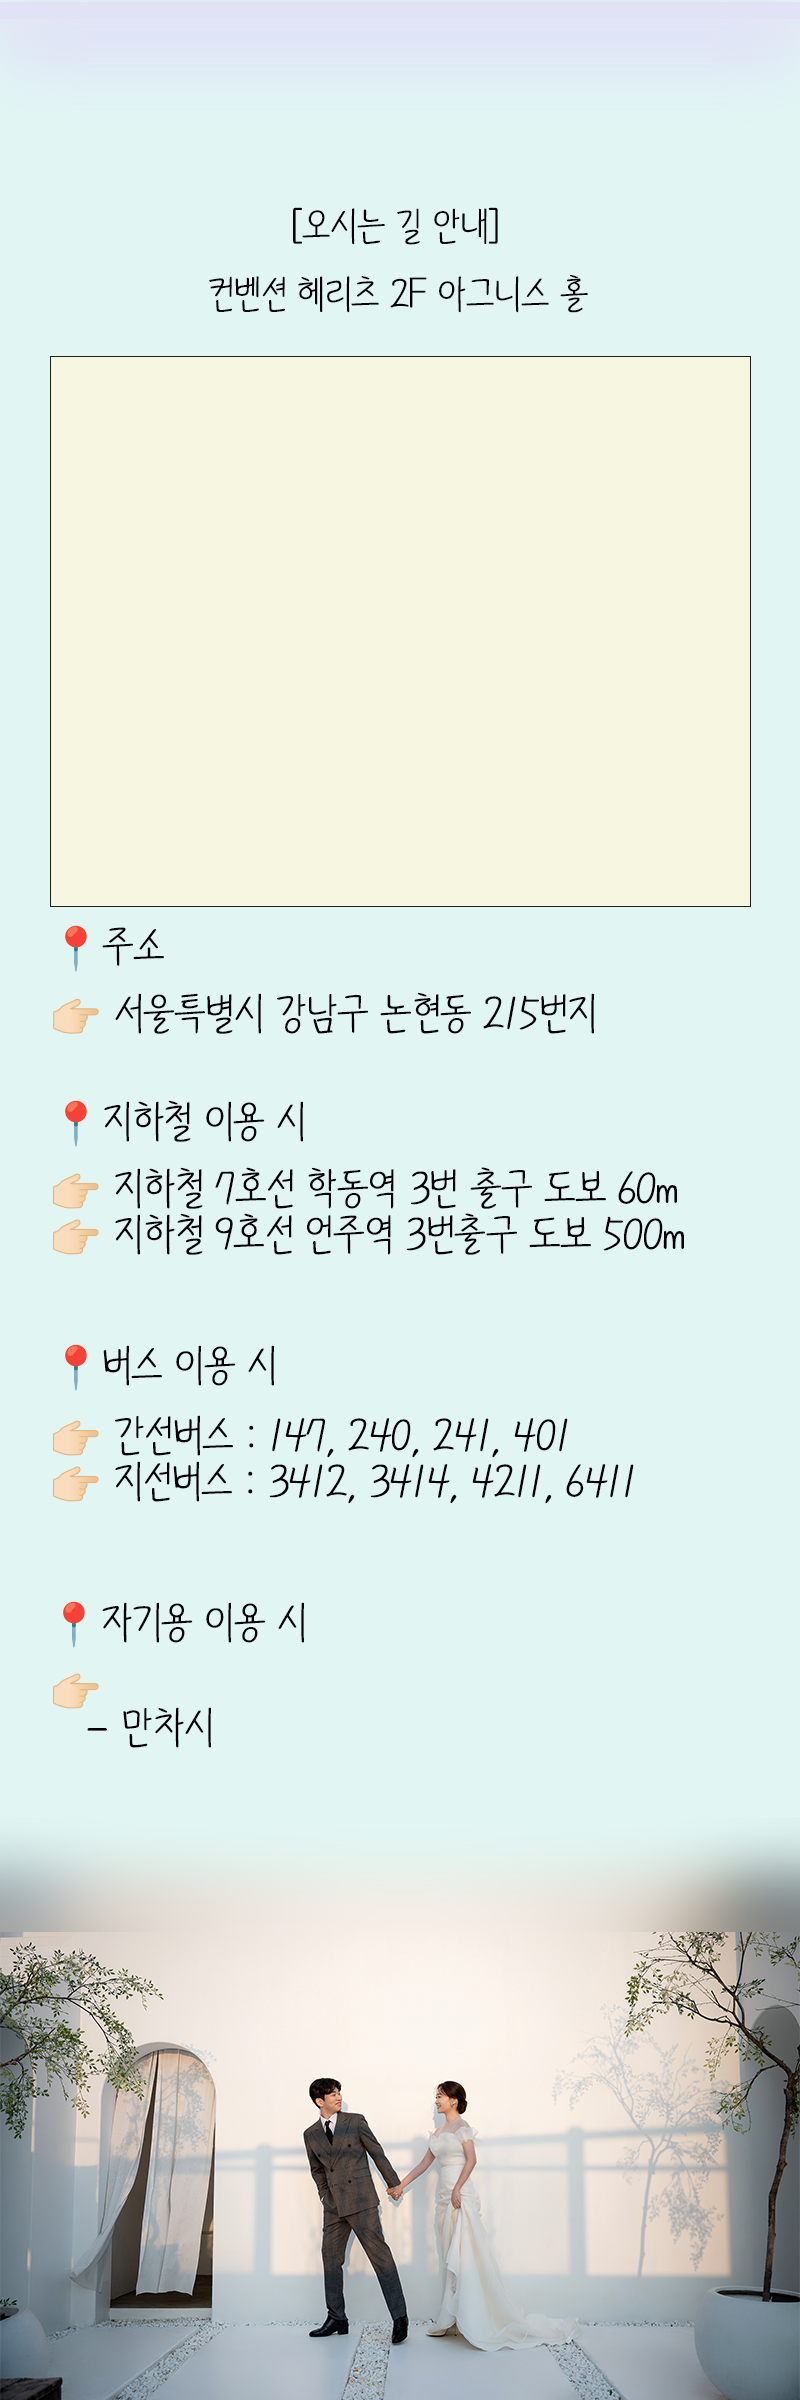
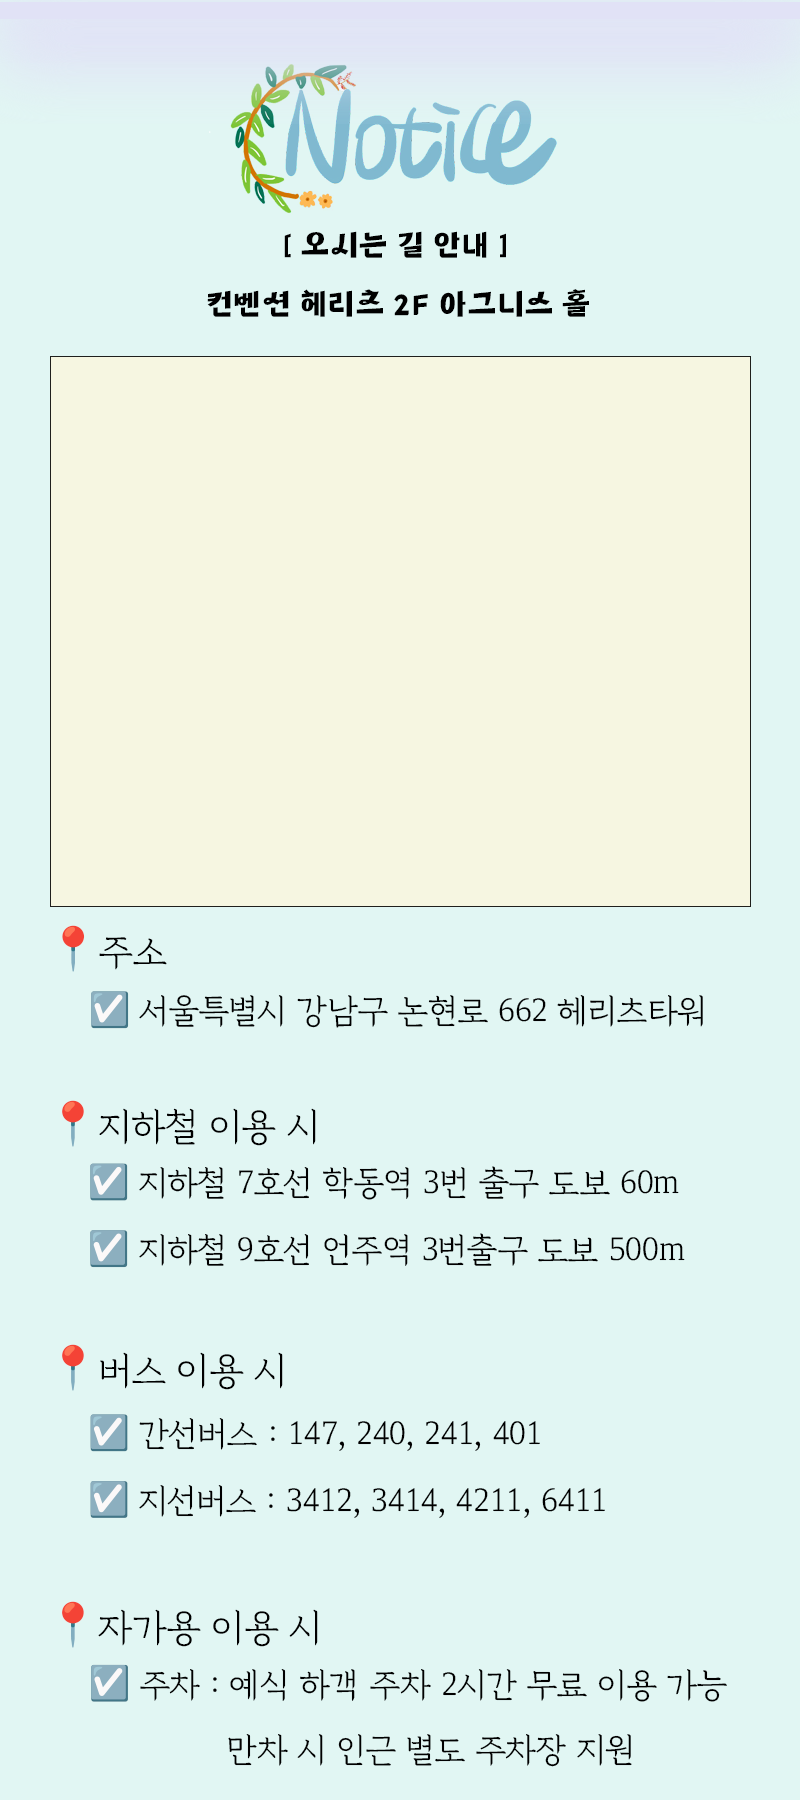
update

diff --git a/css/section.css b/css/section.css
@@ -229,7 +229,7 @@ margin-top: -2%;
 }
 .notice_map {
   position: absolute;
-  top: 13.7%;
+  top: 18.4%;
   left: 10%;
   z-index: 100;
   width: 100%;
@@ -246,11 +246,11 @@ margin-top: -2%;
   z-index: 1;
   width: 100%;
   height: auto;
-  margin-top: -8%;
+  margin-top: -4%;
 }
 .icon1 {
     position: absolute;
-    top : 17.1%;
+    top : 21.9%;
     left : 70%;
     cursor: pointer;
     /* display: inline-block; */
@@ -262,7 +262,7 @@ margin-top: -2%;
 }
 .icon2 {
     position: absolute;
-    top : 25.2%;
+    top : 27.2%;
     left : 70%;
     cursor: pointer;
     /* display: inline-block; */
@@ -274,7 +274,7 @@ margin-top: -2%;
 }
 .icon3 {
     position: absolute;
-    top : 33.2%;
+    top : 32.5%;
     left : 70%;
     cursor: pointer;
     /* display: inline-block; */
@@ -286,7 +286,7 @@ margin-top: -2%;
 }
 .icon4 {
     position: absolute;
-    top : 49.2%;
+    top : 42.9%;
     left : 70%;
     cursor: pointer;
     /* display: inline-block; */
@@ -298,7 +298,7 @@ margin-top: -2%;
 }
 .icon5 {
     position: absolute;
-    top : 54.1%;
+    top : 49.1%;
     left : 70%;
     cursor: pointer;
     /* display: inline-block; */
@@ -308,24 +308,13 @@ margin-top: -2%;
     z-index: 200;
     user-select: none;
 }
-.icon5 {
-    position: absolute;
-    top : 58.4%;
-    left : 70%;
-    cursor: pointer;
-    /* display: inline-block; */
-    /* padding: 10px; */
-    background-color: #f0f0f0;
-    border-radius: 5px;
-    z-index: 200;
-    user-select: none;
-}
+
 
 .icon_link {
     position: absolute;
 
-    top : 82%;
-    left : 19%;
+    top : 65.5%;
+    left : 24%;
     cursor: pointer;
 
     /* display: inline-block; */
@@ -343,5 +332,5 @@ position: absolute;
 .icon_link {
   position: absolute;
 
-  width: 60%;
+  width: 50%;
 }
